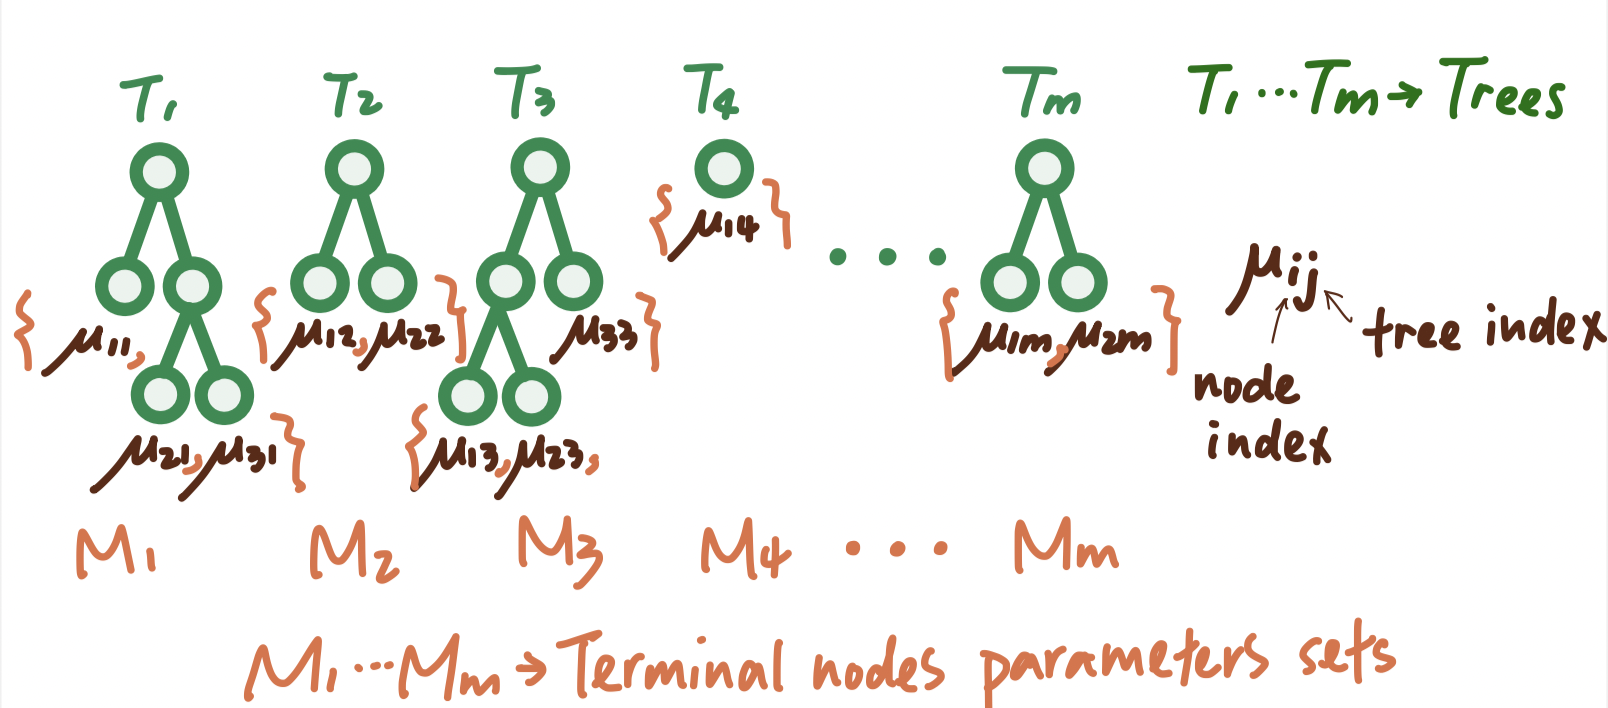
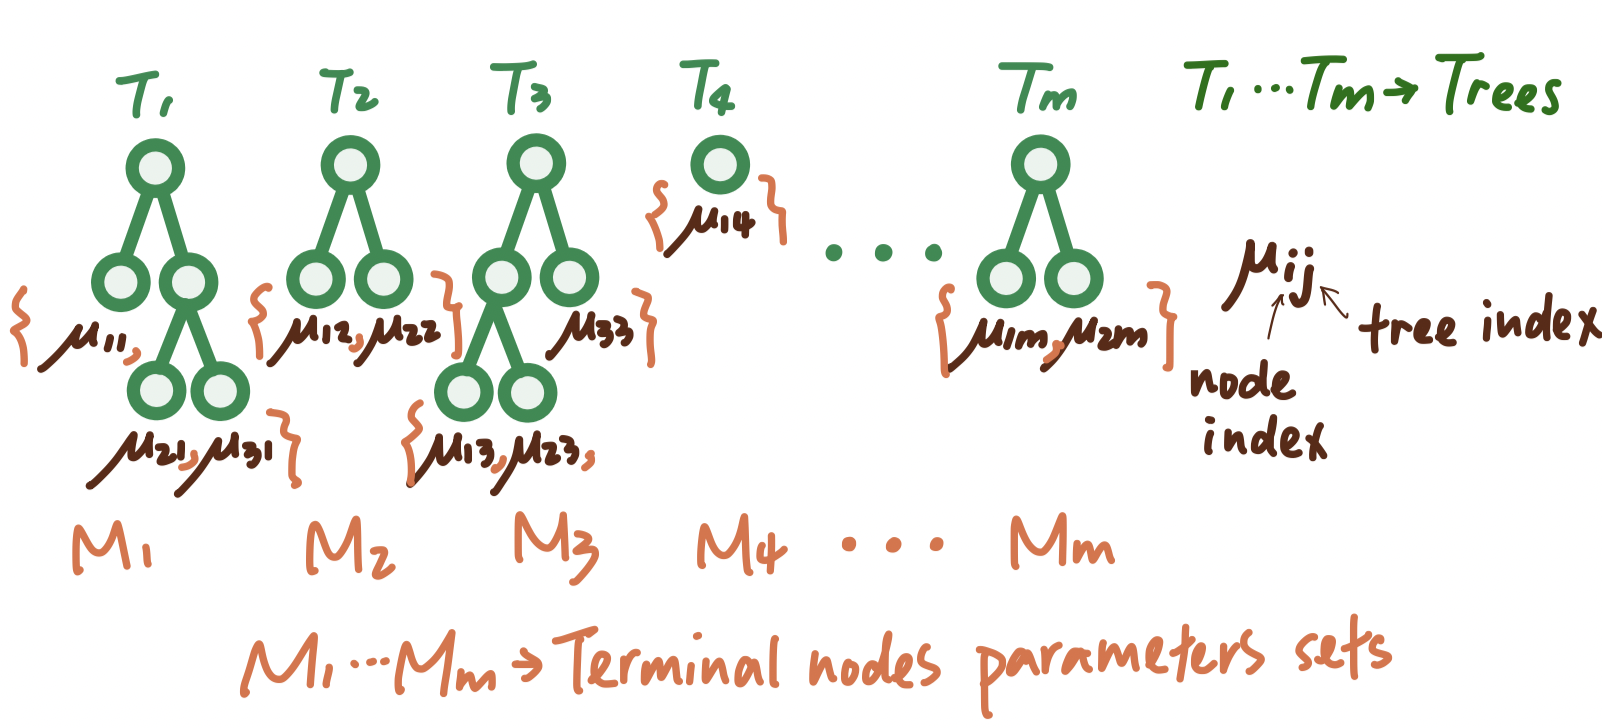
method image fixed

diff --git a/docs/the-methodology.html b/docs/the-methodology.html
@@ -6,7 +6,7 @@
   <meta http-equiv="X-UA-Compatible" content="IE=edge" />
   <title>Chapter 2 The Methodology | Intro to Bayesian Addictive Regression Trees (BART)</title>
   <meta name="description" content="Chapter 2 The Methodology | Intro to Bayesian Addictive Regression Trees (BART)" />
-  <meta name="generator" content="bookdown 0.34 and GitBook 2.6.7" />
+  <meta name="generator" content="bookdown 0.39 and GitBook 2.6.7" />
 
   <meta property="og:title" content="Chapter 2 The Methodology | Intro to Bayesian Addictive Regression Trees (BART)" />
   <meta property="og:type" content="book" />
@@ -136,11 +136,12 @@
 function f that predicts an output Y using a <span class="math inline">\(p\)</span>-dimensional vector of
 inputs <span class="math inline">\(x = (x_1, ..., x_p)\)</span> when
 <span class="math display">\[Y = f(x) + \epsilon, \text{with } \epsilon \sim N(0, σ^2)\]</span></p>
-<p>To do this, we consider modeling or at least approximating <span class="math inline">\(f(x) = E(Y | x)\)</span>,
-the mean of <span class="math inline">\(Y\)</span> given <span class="math inline">\(x\)</span>, by a sum of <span class="math inline">\(m\)</span> regression trees
+<p>To do this, we consider modeling or at least approximating
+<span class="math inline">\(f(x) = E(Y | x)\)</span>, the mean of <span class="math inline">\(Y\)</span> given <span class="math inline">\(x\)</span>, by a sum of <span class="math inline">\(m\)</span> regression
+trees
 <span class="math display">\[f(x) \approx h(x) ≡ \sum_{j=1}^m g_j(x) \text{ where each } g \text{ denotes a regression tree and } g_j \text{ denotes the } jth \text{ tree}\]</span></p>
 <div class="figure" style="text-align: center"><span style="display:block;" id="fig:unnamed-chunk-1"></span>
-<img src="image/simple-g.jpg" alt="A visual representation of $g(x;T_j, M_j)$ . Square boxes represent the splitting rules, while circles denote the terminal nodes. " width="60%" />
+<img src="image/simple_g.jpg" alt="A visual representation of $g(x;T_j, M_j)$ . Square boxes represent the splitting rules, while circles denote the terminal nodes. " width="60%" />
 <p class="caption">
 Figure 2.1: A visual representation of <span class="math inline">\(g(x;T_j, M_j)\)</span> . Square boxes represent the splitting rules, while circles denote the terminal nodes.
 </p>
@@ -282,46 +283,101 @@ trees.</p>
 <h2><span class="header-section-number">2.3</span> Backfitting with MCMC Algorithm<a href="the-methodology.html#backfitting-with-mcmc-algorithm" class="anchor-section" aria-label="Anchor link to header"></a></h2>
 <div id="the-algorithm-set-up" class="section level3 hasAnchor" number="2.3.1">
 <h3><span class="header-section-number">2.3.1</span> The algorithm set-up<a href="the-methodology.html#the-algorithm-set-up" class="anchor-section" aria-label="Anchor link to header"></a></h3>
-<p>Hastie and Tibshirani (2000) considered a similar application of the Gibbs sampler for posterior sampling for additive and generalized additive models with σ fixed, and showed how it was a stochastic generalization of the backfitting algorithm for such models. For this reason, Chipman et al. (2010) refer to their algorithm as backfitting MCMC.</p>
-<p>Given the observed data <span class="math inline">\(y\)</span> and unknown parameters <span class="math inline">\((T_1, M_1), ..., (T_m, M_m), \sigma\)</span>, the posterior distribution of these parameters can be represented as <span class="math display">\[p((T_1, M_1), ..., (T_m, M_m), \sigma|y)\]</span>, which determine the sum-of-trees model.</p>
-<p>Generally speaking, this backfitting algorithm iteratively updates each parameter in <span class="math inline">\((T_1, M_1), ...(T_m, M_m), \sigma\)</span> using the most current knowldge of the other parameters, which is just the idea of Gibbs sampler.</p>
-<p>Specifically, <span class="math inline">\(T_{(j)}\)</span> represents all trees except <span class="math inline">\(T_j\)</span>, and <span class="math inline">\(M_{(j)}\)</span> represents all terminal nodes parameters except <span class="math inline">\(M_j\)</span>. In this Gibbs sampler, we loop from <span class="math inline">\(j = 1\)</span> to <span class="math inline">\(j = m\)</span> to draw <span class="math inline">\((T_j, M_j)\)</span> from <span class="math inline">\((T_{(j)}, M_{(j)}), \sigma, y\)</span>. That is, <span class="math display">\[(T_j, M_j) |T_{(j)}, M_{(j)}, \sigma, y\]</span>
-We also need to update <span class="math inline">\(\sigma\)</span> based on the most recent knowledge of <span class="math inline">\((T_1, M_1), ...(T_m, M_m)\)</span>: <span class="math display">\[\sigma|T_1,...T_m, M_1, ...M_m, y\]</span>.</p>
-<p>The posterior distribution <span class="math inline">\(p(T_j, M_j|T_{(j)}, M_{(j)}, \sigma, y)\)</span> depends on four things <span class="math inline">\(T_{(j)}, M_{(j)}, \sigma, y\)</span>. But it depends on three of them <span class="math inline">\(T_{(j)}, M_{(j)}, y\)</span> only through <span class="math display">\[R_j \equiv y-\sum_{k\neq j}g(x;T_k, M_k)\]</span>, which is an <span class="math inline">\(n\)</span>-vector where the <span class="math inline">\(j_{th}\)</span> entry records the discrepancy between the real value and the current estimate, where the current estimate is just the sum of the partial results gotten from all but the <span class="math inline">\(j_{th}\)</span> trees.</p>
-<p>Consequently, drawing <span class="math inline">\((T_j, M_j)\)</span> given <span class="math inline">\(T_{(j)}, M_{(j)}, \sigma, y\)</span> can be regarded as equivalent to drawing from <span class="math inline">\(R_j, \sigma\)</span>, expressed as:</p>
+<p>Hastie and Tibshirani (2000) considered a similar application of the
+Gibbs sampler for posterior sampling for additive and generalized
+additive models with σ fixed, and showed how it was a stochastic
+generalization of the backfitting algorithm for such models. For this
+reason, Chipman et al. (2010) refer to their algorithm as backfitting
+MCMC.</p>
+<p>Given the observed data <span class="math inline">\(y\)</span> and unknown parameters
+<span class="math inline">\((T_1, M_1), ..., (T_m, M_m), \sigma\)</span>, the posterior distribution of
+these parameters can be represented as
+<span class="math display">\[p((T_1, M_1), ..., (T_m, M_m), \sigma|y)\]</span>, which determine the
+sum-of-trees model.</p>
+<p>Generally speaking, this backfitting algorithm iteratively updates each
+parameter in <span class="math inline">\((T_1, M_1), ...(T_m, M_m), \sigma\)</span> using the most current
+knowldge of the other parameters, which is just the idea of Gibbs
+sampler.</p>
+<p>Specifically, <span class="math inline">\(T_{(j)}\)</span> represents all trees except <span class="math inline">\(T_j\)</span>, and <span class="math inline">\(M_{(j)}\)</span>
+represents all terminal nodes parameters except <span class="math inline">\(M_j\)</span>. In this Gibbs
+sampler, we loop from <span class="math inline">\(j = 1\)</span> to <span class="math inline">\(j = m\)</span> to draw <span class="math inline">\((T_j, M_j)\)</span> from
+<span class="math inline">\((T_{(j)}, M_{(j)}), \sigma, y\)</span>. That is,
+<span class="math display">\[(T_j, M_j) |T_{(j)}, M_{(j)}, \sigma, y\]</span> We also need to update
+<span class="math inline">\(\sigma\)</span> based on the most recent knowledge of
+<span class="math inline">\((T_1, M_1), ...(T_m, M_m)\)</span>: <span class="math display">\[\sigma|T_1,...T_m, M_1, ...M_m, y\]</span>.</p>
+<p>The posterior distribution <span class="math inline">\(p(T_j, M_j|T_{(j)}, M_{(j)}, \sigma, y)\)</span>
+depends on four things <span class="math inline">\(T_{(j)}, M_{(j)}, \sigma, y\)</span>. But it depends on
+three of them <span class="math inline">\(T_{(j)}, M_{(j)}, y\)</span> only through
+<span class="math display">\[R_j \equiv y-\sum_{k\neq j}g(x;T_k, M_k)\]</span>, which is an <span class="math inline">\(n\)</span>-vector
+where the <span class="math inline">\(j_{th}\)</span> entry records the discrepancy between the real value
+and the current estimate, where the current estimate is just the sum of
+the partial results gotten from all but the <span class="math inline">\(j_{th}\)</span> trees.</p>
+<p>Consequently, drawing <span class="math inline">\((T_j, M_j)\)</span> given <span class="math inline">\(T_{(j)}, M_{(j)}, \sigma, y\)</span>
+can be regarded as equivalent to drawing from <span class="math inline">\(R_j, \sigma\)</span>, expressed
+as:</p>
 <p><span class="math display">\[(T_j, M_j)|R_j, \sigma\]</span></p>
-<p>Here, <span class="math inline">\(R_j\)</span> can be understood as the target value that the single tree model <span class="math inline">\(T_j\)</span> aims to get at, essentially acting as the “data” for this purpose. Formally, <span class="math display">\[R_j = g(x;T_j, M_j)+\epsilon\]</span>.</p>
-<p>The calculation for <span class="math inline">\(p(T_j|R_j, \sigma)\)</span> is detailed as follows:
-<span class="math display">\[
+<p>Here, <span class="math inline">\(R_j\)</span> can be understood as the target value that the single tree
+model <span class="math inline">\(T_j\)</span> aims to get at, essentially acting as the “data” for this
+purpose. Formally, <span class="math display">\[R_j = g(x;T_j, M_j)+\epsilon\]</span>.</p>
+<p>The calculation for <span class="math inline">\(p(T_j|R_j, \sigma)\)</span> is detailed as follows: <span class="math display">\[
 \begin{align*}
 p(T_j|R_j, \sigma) &amp;= p(T_j)p(R_j|T_j,\sigma) \\
 &amp;\propto p(T_j)\int p(R_j,M_j|T_j,\sigma)dM_j \\
 &amp;= p(T_j)\int p(R_j|M_j, T_j,\sigma)p(M_j|T_j, \sigma)dM_j
 \end{align*}
 \]</span></p>
-<p>Given the use of a conjugate prior for <span class="math inline">\(M_j\)</span>, we can derive <span class="math inline">\(p(T_j|R_j, \sigma)\)</span> in a closed form up to a normalization constant.</p>
-<p>In summary, the whole backfitting algorithm utilizing the idea of Gibbs sampler is to successively draw <span class="math inline">\(T_1, M_1, ..., T_m, M_m, sigma\)</span> in each full iteration. Thus, each interation is consists of <span class="math inline">\(2m+1\)</span> steps:</p>
+<p>Given the use of a conjugate prior for <span class="math inline">\(M_j\)</span>, we can derive
+<span class="math inline">\(p(T_j|R_j, \sigma)\)</span> in a closed form up to a normalization constant.</p>
+<p>In summary, the whole backfitting algorithm utilizing the idea of Gibbs
+sampler is to successively draw <span class="math inline">\(T_1, M_1, ..., T_m, M_m, sigma\)</span> in each
+full iteration. Thus, each interation is consists of <span class="math inline">\(2m+1\)</span> steps:</p>
 <p><span class="math display">\[
 T_j|R_j, \sigma\\
 M_j|T_j, R_j, \sigma \\
 \sigma |T_1, M_1,...T_m, M_m,y, \sigma
-\]</span>
-Tree drawings <span class="math inline">\(T_j\)</span> are facilitated using the Metropolis-Hastings algorithm, which proposes new tree configurations based on the current tree through various modifications: growing a terminal node, pruning a pair of terminal nodes, changing a nonterminal rule, and swapping rules between parent and child nodes, with associated probabilities of 0.25, 0.25, 0.40, and 0.10 respectively.</p>
-<p>Subsequently, <span class="math inline">\(M_j\)</span> is drawn independently for the terminal nodes <span class="math inline">\(\mu_{ij}\)</span> from a normal distribution, facilitating the calculation of the next residual <span class="math inline">\(R_{j+1}\)</span>, which is crucial for the upcoming draw of <span class="math inline">\(T_{j+1}\)</span>.</p>
+\]</span> Tree drawings <span class="math inline">\(T_j\)</span> are facilitated using the Metropolis-Hastings
+algorithm, which proposes new tree configurations based on the current
+tree through various modifications: growing a terminal node, pruning a
+pair of terminal nodes, changing a nonterminal rule, and swapping rules
+between parent and child nodes, with associated probabilities of 0.25,
+0.25, 0.40, and 0.10 respectively.</p>
+<p>Subsequently, <span class="math inline">\(M_j\)</span> is drawn independently for the terminal nodes
+<span class="math inline">\(\mu_{ij}\)</span> from a normal distribution, facilitating the calculation of
+the next residual <span class="math inline">\(R_{j+1}\)</span>, which is crucial for the upcoming draw of
+<span class="math inline">\(T_{j+1}\)</span>.</p>
 </div>
 <div id="posterior-inference-statistics" class="section level3 hasAnchor" number="2.3.2">
 <h3><span class="header-section-number">2.3.2</span> Posterior inference statistics<a href="the-methodology.html#posterior-inference-statistics" class="anchor-section" aria-label="Anchor link to header"></a></h3>
-<p>Every output from the algorithm can be used to build a tree-based model. Summing up all the tree outputs from each draw (indexed by j), we get a sequence of models that gradually approach the true underlying model, <span class="math inline">\(f(·)\)</span>. This is noted as:
-<span class="math display">\[ f^*(·) = \sum_{j=1}^m g(·; T^*_j, M^*_j) \]</span></p>
-<p>By running the algorithm for a sufficient number of iterations, especially after a preliminary ‘burn-in’ period, the sequence of <span class="math inline">\(f^{∗}\)</span> draws (like <span class="math inline">\(f^{∗}_1\)</span>, <span class="math inline">\(f^{∗}_2\)</span>, …, <span class="math inline">\(f^{∗}_K\)</span>) gives a good approximation of the posterior distribution of the true model <span class="math inline">\(f(·)\)</span>.</p>
-<p>These tree-based model outputs can be used to estimate various statistical measures, like the mean or median of <span class="math inline">\(f(·)\)</span>, by averaging or finding the median of the post-burn-in samples.</p>
-<p>To predict values or behaviors (<span class="math inline">\(Y\)</span>) at a new or existing data point (<span class="math inline">\(x\)</span>), you can use the average or median of these post-burn-in tree models.
-To understand the reliability of these predictions at different values of <span class="math inline">\(x\)</span>, you look at how much the predictions vary among these models. This can be captured by calculating intervals (quantiles) around the predictions.
-By observing which variables are most frequently used in the models (especially as the number of trees <span class="math inline">\(m\)</span> is reduced), BART helps identify the most important predictors for the response variable <span class="math inline">\(Y\)</span>. This process is effectively a competition among predictors to demonstrate their relevance to the model.</p>
+<p>Every output from the algorithm can be used to build a tree-based model.
+Summing up all the tree outputs from each draw (indexed by j), we get a
+sequence of models that gradually approach the true underlying model,
+<span class="math inline">\(f(·)\)</span>. This is noted as: <span class="math display">\[ f^*(·) = \sum_{j=1}^m g(·; T^*_j, M^*_j) \]</span></p>
+<p>By running the algorithm for a sufficient number of iterations,
+especially after a preliminary ‘burn-in’ period, the sequence of <span class="math inline">\(f^{∗}\)</span>
+draws (like <span class="math inline">\(f^{∗}_1\)</span>, <span class="math inline">\(f^{∗}_2\)</span>, …, <span class="math inline">\(f^{∗}_K\)</span>) gives a good
+approximation of the posterior distribution of the true model <span class="math inline">\(f(·)\)</span>.</p>
+<p>These tree-based model outputs can be used to estimate various
+statistical measures, like the mean or median of <span class="math inline">\(f(·)\)</span>, by averaging or
+finding the median of the post-burn-in samples.</p>
+<p>To predict values or behaviors (<span class="math inline">\(Y\)</span>) at a new or existing data point
+(<span class="math inline">\(x\)</span>), you can use the average or median of these post-burn-in tree
+models. To understand the reliability of these predictions at different
+values of <span class="math inline">\(x\)</span>, you look at how much the predictions vary among these
+models. This can be captured by calculating intervals (quantiles) around
+the predictions. By observing which variables are most frequently used
+in the models (especially as the number of trees <span class="math inline">\(m\)</span> is reduced), BART
+helps identify the most important predictors for the response variable
+<span class="math inline">\(Y\)</span>. This process is effectively a competition among predictors to
+demonstrate their relevance to the model.</p>
 </div>
 <div id="conclusion" class="section level3 hasAnchor" number="2.3.3">
 <h3><span class="header-section-number">2.3.3</span> Conclusion<a href="the-methodology.html#conclusion" class="anchor-section" aria-label="Anchor link to header"></a></h3>
-<p>In summary, the backfitting MCMC algorithm generates multiple potential models by simulating how trees would split based on data. These models converge over many iterations to a true model. By analyzing these models, one can make predictions, assess uncertainty, understand variable importance, and determine the impact of specific predictors on the outcome.<br />
+<p>In summary, the backfitting MCMC algorithm generates multiple potential
+models by simulating how trees would split based on data. These models
+converge over many iterations to a true model. By analyzing these
+models, one can make predictions, assess uncertainty, understand
+variable importance, and determine the impact of specific predictors on
+the outcome.<br />
 <br />
 </p>
 </div>

diff --git a/docs/404.html b/docs/404.html
@@ -6,7 +6,7 @@
   <meta http-equiv="X-UA-Compatible" content="IE=edge" />
   <title>Page not found | Intro to Bayesian Addictive Regression Trees (BART)</title>
   <meta name="description" content="Page not found | Intro to Bayesian Addictive Regression Trees (BART)" />
-  <meta name="generator" content="bookdown 0.34 and GitBook 2.6.7" />
+  <meta name="generator" content="bookdown 0.39 and GitBook 2.6.7" />
 
   <meta property="og:title" content="Page not found | Intro to Bayesian Addictive Regression Trees (BART)" />
   <meta property="og:type" content="book" />

diff --git a/docs/libs/gitbook-2.6.7/css/plugin-highlight.css b/docs/libs/gitbook-2.6.7/css/plugin-highlight.css
@@ -133,7 +133,7 @@
 .book.color-theme-1 .book-body .page-wrapper .page-inner section.normal code {
   /*
 
-Orginal Style from ethanschoonover.com/solarized (c) Jeremy Hull <sourdrums@gmail.com>
+Original Style from ethanschoonover.com/solarized (c) Jeremy Hull <sourdrums@gmail.com>
 
 */
   /* Solarized Green */
